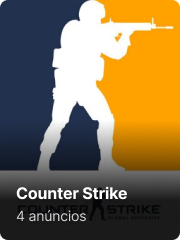
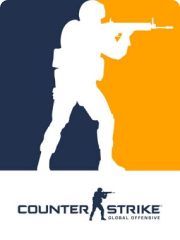
feat: finishing landing-page structure

diff --git a/web/src/App.tsx b/web/src/App.tsx
@@ -1,33 +1,111 @@
+import { MagnifyingGlassPlus } from "phosphor-react";
+
 import "./styles/main.css";
 
 import logoImg from "./assets/logo-nlw-esports.svg";
 
 function App() {
   return (
-  <div className="max-w-[1344px] mx-auto flex flex-col items-center my-20">
+    <div className="max-w-[1344px] mx-auto flex flex-col items-center my-20">
       <img src={logoImg} alt="Logo Image" />
 
       <h1 className="text-6xl text-white font-black mt-20">
-        Seu <span className="text-transparent bg-nlw-gradient bg-clip-text">duo</span> está aqui
+        Seu{" "}
+        <span className="text-transparent bg-nlw-gradient bg-clip-text">
+          duo
+        </span>{" "}
+        está aqui
       </h1>
 
       <div className="grid grid-cols-6 gap-6 mt-16">
-        <a href="">
+        <a href="" className="relative rounded-lg overflow-hidden">
           <img src="/game-1.png" alt="" />
+
+          <div className="w-full pt-16 pb-4 px4 bg-game-gradient absolute bottom-0 left-0 right-0">
+            <div className="px-3">
+              <strong className="font-bold text-white block">
+                League of Legends
+              </strong>
+              <span className="text-zinc-300 text-sm block">4 anúncios</span>
+            </div>
+          </div>
         </a>
-         <a href="">
+
+        <a href="" className="relative rounded-lg overflow-hidden">
           <img src="/game-2.png" alt="" />
-        </a> <a href="">
+          <div className="w-full pt-16 pb-4 px4 bg-game-gradient absolute bottom-0 left-0 right-0">
+            <div className="px-3">
+              <strong className="font-bold text-white block">Dota 2</strong>
+              <span className="text-zinc-300 text-sm block">4 anúncios</span>
+            </div>
+          </div>
+        </a>
+
+        <a href="" className="relative rounded-lg overflow-hidden">
           <img src="/game-3.png" alt="" />
-        </a> <a href="">
+          <div className="w-full pt-16 pb-4 px4 bg-game-gradient absolute bottom-0 left-0 right-0">
+            <div className="px-3">
+              <strong className="font-bold text-white block">
+                Counter Strike
+              </strong>
+              <span className="text-zinc-300 text-sm block">4 anúncios</span>
+            </div>
+          </div>
+        </a>
+
+        <a href="" className="relative rounded-lg overflow-hidden">
           <img src="/game-4.png" alt="" />
-        </a> <a href="">
+          <div className="w-full pt-16 pb-4 px4 bg-game-gradient absolute bottom-0 left-0 right-0">
+            <div className="px-3">
+              <strong className="font-bold text-white block">
+                Apex Legends
+              </strong>
+              <span className="text-zinc-300 text-sm block">4 anúncios</span>
+            </div>
+          </div>
+        </a>
+
+        <a href="" className="relative rounded-lg overflow-hidden">
           <img src="/game-5.png" alt="" />
-        </a> <a href="">
+          <div className="w-full pt-16 pb-4 px4 bg-game-gradient absolute bottom-0 left-0 right-0">
+            <div className="px-3">
+              <strong className="font-bold text-white block">Fortnite</strong>
+              <span className="text-zinc-300 text-sm block">4 anúncios</span>
+            </div>
+          </div>
+        </a>
+        <a href="" className="relative rounded-lg overflow-hidden">
           <img src="/game-6.png" alt="" />
+          <div className="w-full pt-16 pb-4 px4 bg-game-gradient absolute bottom-0 left-0 right-0">
+            <div className="px-3">
+              <strong className="font-bold text-white block">
+                World of Warcraft
+              </strong>
+              <span className="text-zinc-300 text-sm block">4 anúncios</span>
+            </div>
+          </div>
         </a>
       </div>
-  </div>)
+
+      <div className="pt-1 bg-nlw-gradient self-stretch rounded-lg mt-8 overflow-hidden">
+        <div className="bg-[#2A2634] px-8 py-6 flex justify-between items-center">
+          <div>
+            <strong className="text-2xl text-white font-black block">
+              Não encontrou seu duo?
+            </strong>
+            <span className="text-zinc-400 block">
+              Publique um anúncio para encontrar novos players!
+            </span>
+          </div>
+
+          <button className="py-3 px-4 bg-violet-500 hover:bg-violet-600 text-white rounded flex items-center gap-3">
+            <MagnifyingGlassPlus size={24} />
+            Publicar anúncio
+          </button>
+        </div>
+      </div>
+    </div>
+  );
 }
 
-export default App
+export default App;

diff --git a/web/index.html b/web/index.html
@@ -2,9 +2,18 @@
 <html lang="en">
   <head>
     <meta charset="UTF-8" />
+
+    <link rel="preconnect" href="https://fonts.googleapis.com" />
+    <link rel="preconnect" href="https://fonts.gstatic.com" crossorigin />
+
     <link rel="icon" type="image/svg+xml" href="/vite.svg" />
     <meta name="viewport" content="width=device-width, initial-scale=1.0" />
     <title>NLW eSports</title>
+
+    <link
+      href="https://fonts.googleapis.com/css2?family=Inter:wght@400;700;900&family=Roboto:wght@400;700&display=swap"
+      rel="stylesheet"
+    />
   </head>
   <body class="bg-[#121214] bg-galaxy bg-cover bg-no-repeat">
     <div id="root"></div>
